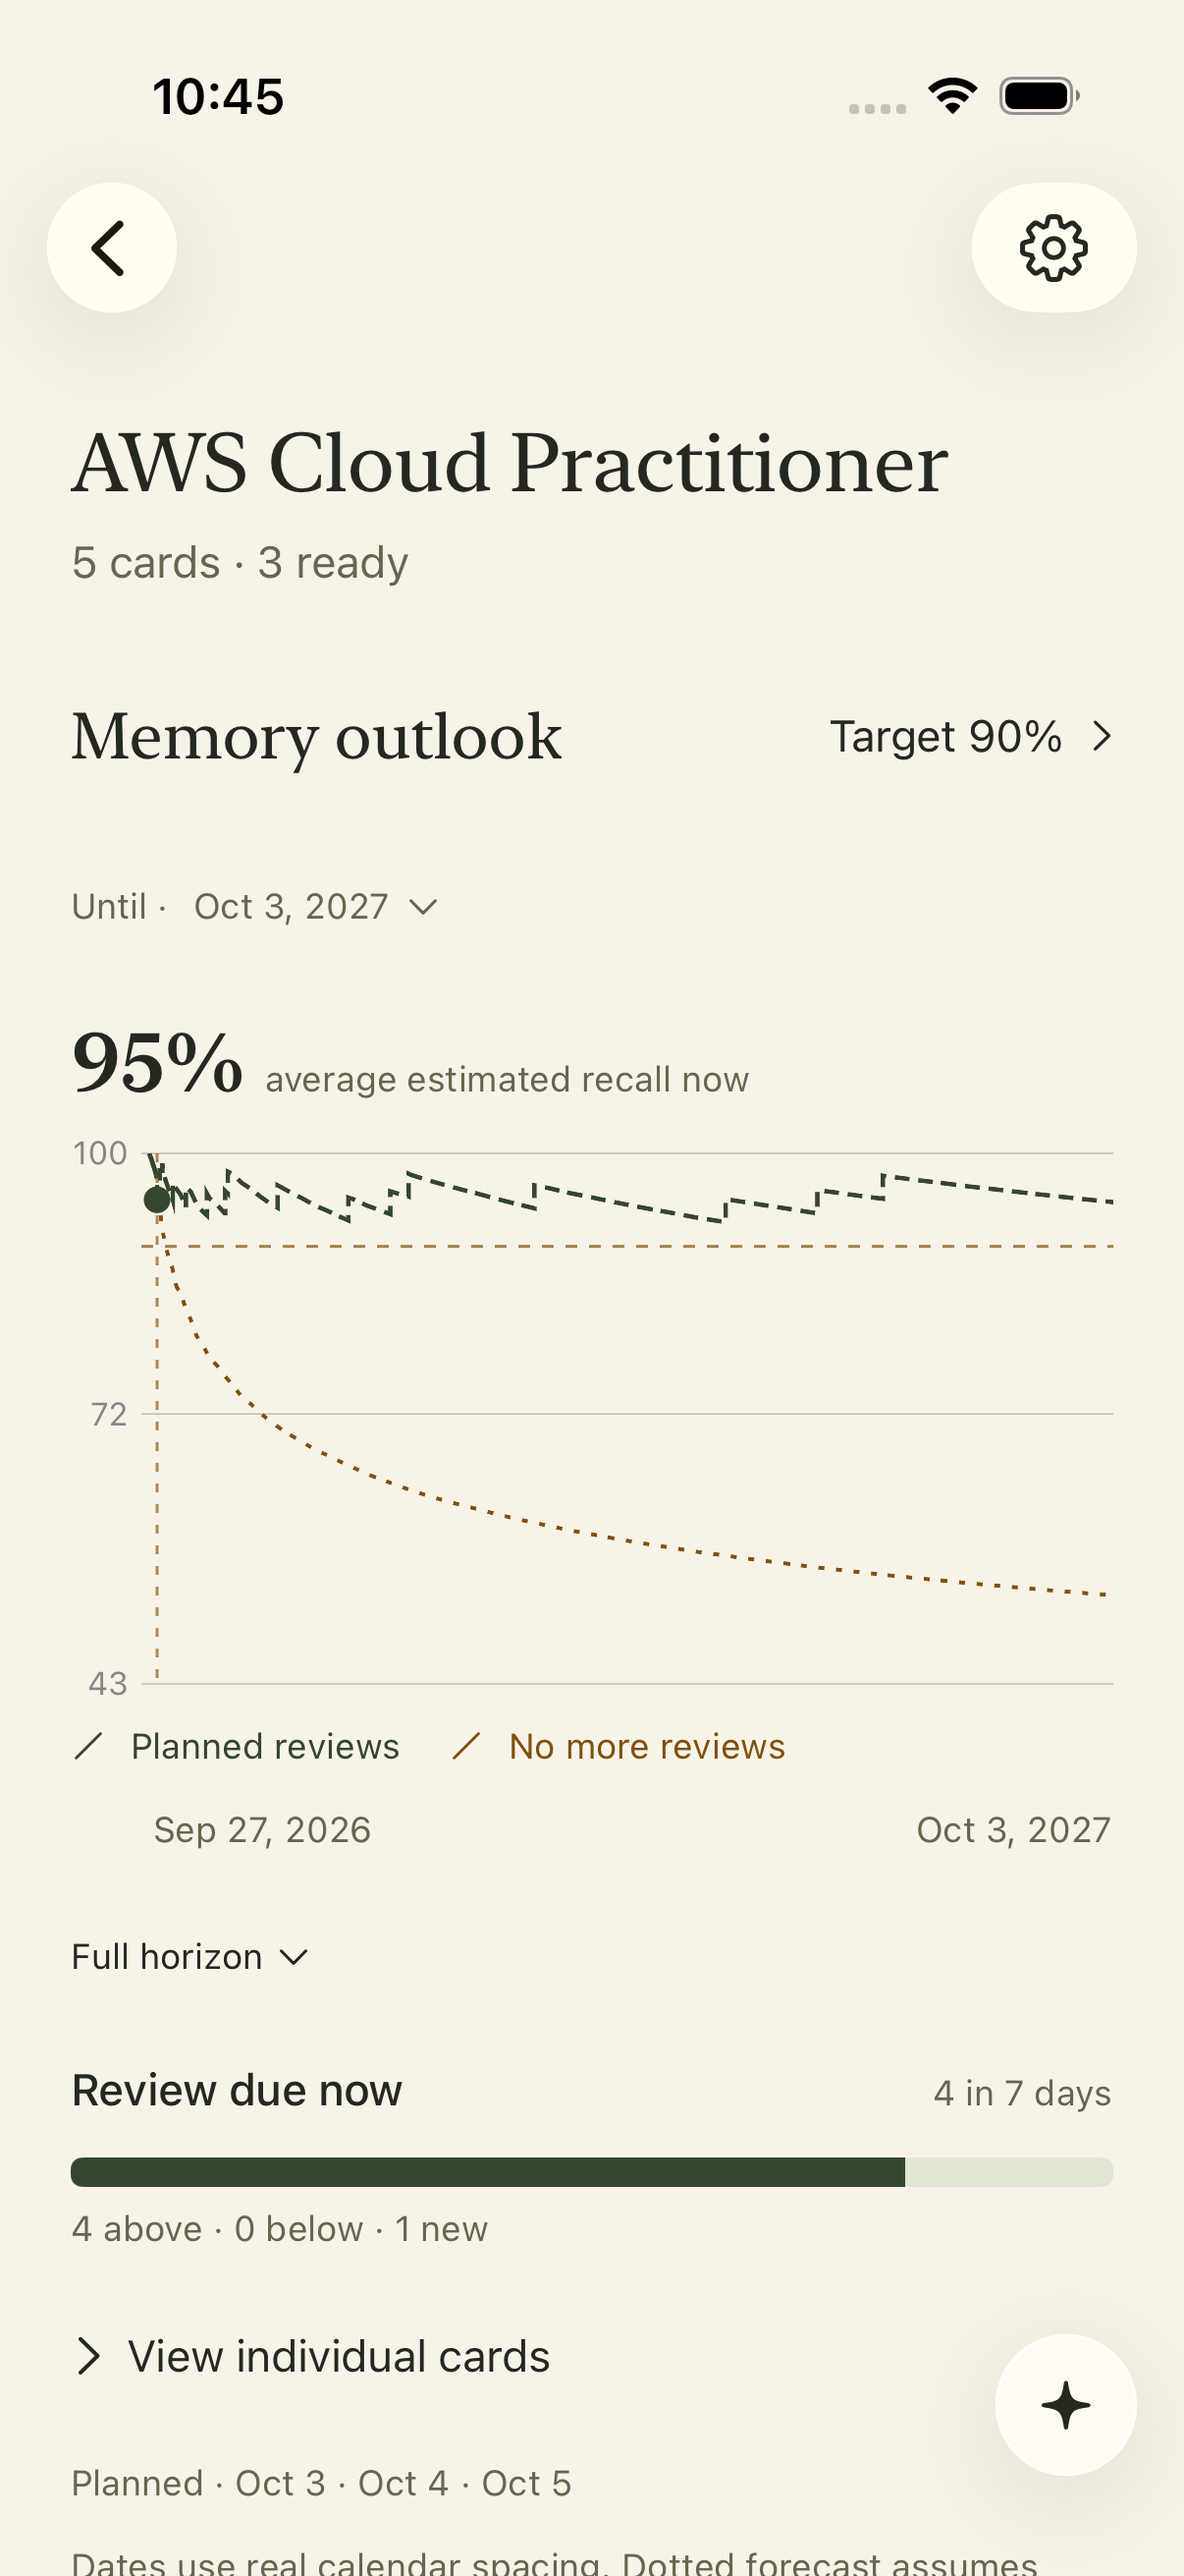
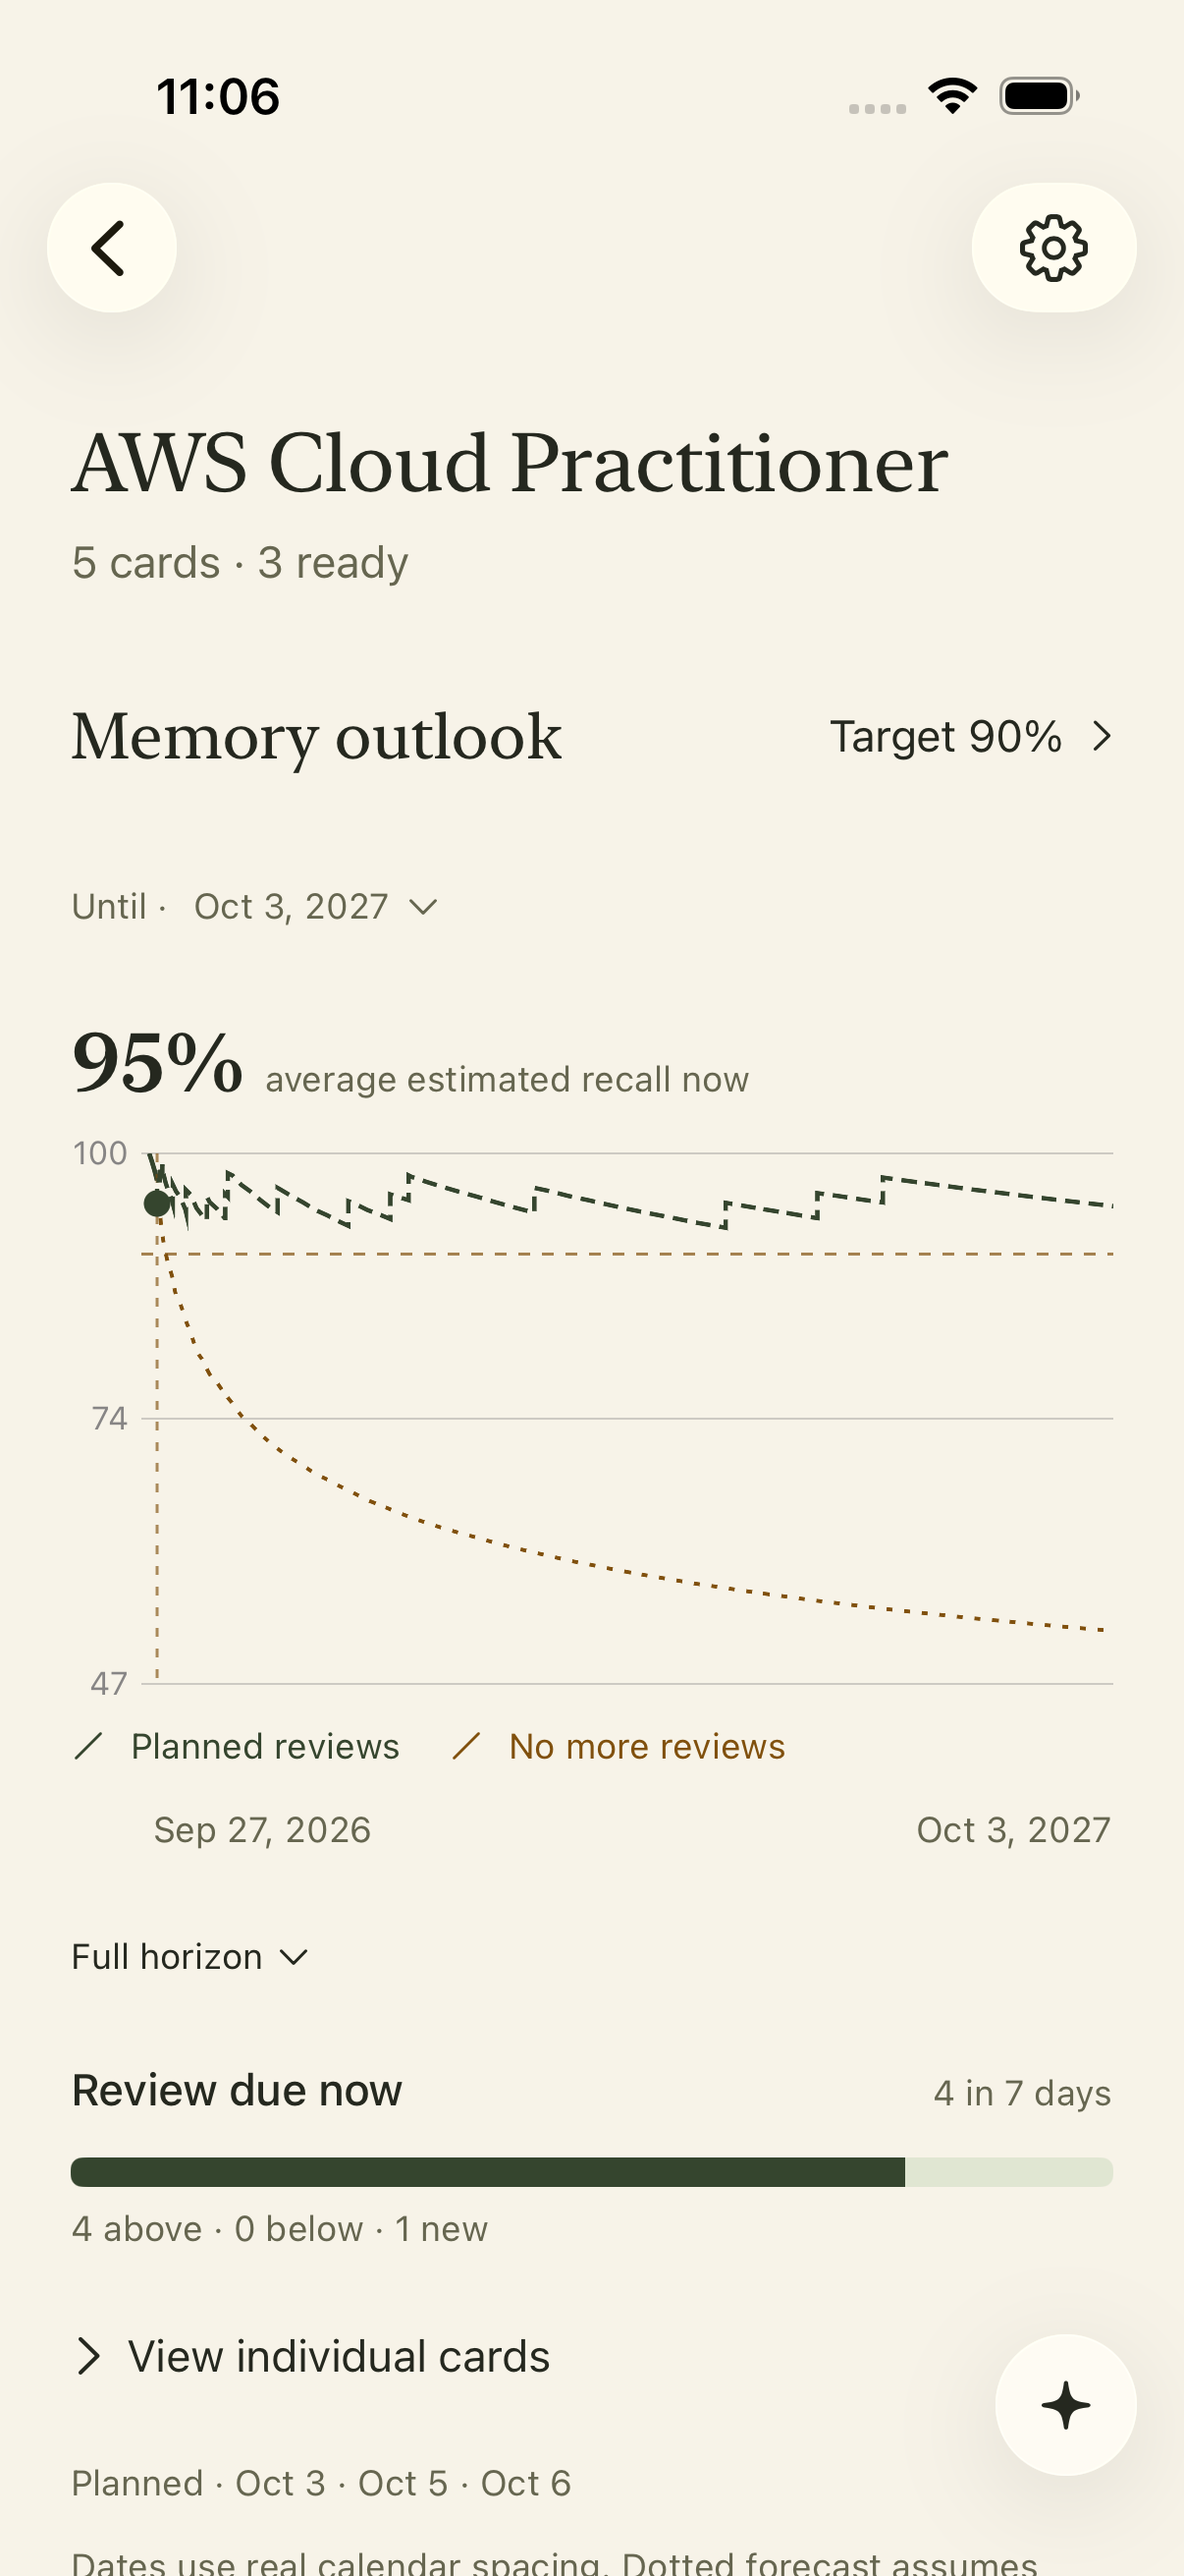
Label retention curves and render vertical forecast jumps

diff --git a/Sources/Features/DeckMemoryPanel.swift b/Sources/Features/DeckMemoryPanel.swift
@@ -48,6 +48,7 @@ struct DeckMemoryPanel: View {
                         Image(systemName: "chevron.right").font(.caption)
                     }.font(.subheadline).frame(minHeight: 44)
                 }
+                HStack(spacing: 12) {
                 Button {
                     useExamDate = (deck.examDate ?? .distantPast) > model.now
                     examDate = useExamDate ? deck.examDate! : outlook.sampleDates.last ?? model.now
@@ -59,6 +60,20 @@ struct DeckMemoryPanel: View {
                         Image(systemName: "chevron.down").font(.caption2)
                     }.font(.caption).foregroundStyle(palette.secondaryText).frame(minHeight: 44)
                 }.buttonStyle(.plain).accessibilityIdentifier("deck-forecast-horizon")
+                    Spacer(minLength: 4)
+                    Menu {
+                        Button("1 month") { setWindow(1) }
+                        Button("2 months") { setWindow(2) }
+                        Button("3 months") { setWindow(3) }
+                        Button("Full horizon") { setWindow(0) }
+                        if windowMonths > 0 { Button("Back to today") { timelineScroll = min(model.now, latestStart); inspectedDate = nil } }
+                    } label: {
+                        HStack(spacing: 4) {
+                            Text(windowMonths == 0 ? "Full horizon" : windowMonths == 1 ? "1 month" : "\(windowMonths) months")
+                            Image(systemName: "chevron.down").font(.caption2)
+                        }.font(.caption).frame(minHeight: 44)
+                    }.accessibilityIdentifier("deck-graph-range")
+                }
                 if outlook.cards.isEmpty {
                     Text("Review cards to see a recall curve. New and learning cards have no reliable estimate yet.")
                         .font(.subheadline).foregroundStyle(palette.secondaryText)
@@ -71,6 +86,7 @@ struct DeckMemoryPanel: View {
                     }
                     let endpoint = DeckMemoryOutlook.recallAt(window.end, dates: outlook.sampleDates, probabilities: values)
                     let axis = DeckMemoryOutlook.recallAxisDomain(endpoint: endpoint)
+                    HStack(spacing: 4) {
                     Chart {
                         ForEach(selected?.history ?? outlook.history) { point in
                             LineMark(x: .value("Date", point.date), y: .value("Recall", point.probability * 100), series: .value("Period", "Recorded reviews"))
@@ -91,7 +107,7 @@ struct DeckMemoryPanel: View {
                                 .lineStyle(StrokeStyle(lineWidth: 1.3, dash: [2, 4]))
                                 .interpolationMethod(.monotone)
                         }
-                        ForEach(selected?.projection ?? outlook.projection) { point in
+                        ForEach(DeckMemoryOutlook.verticalReviewPoints(selected?.projection ?? outlook.projection, reviewDates: selected?.reviewDates ?? outlook.reviewDates).enumerated().map { Point(id: $0.offset, date: $0.element.date, probability: $0.element.probability) }) { point in
                             LineMark(x: .value("Date", point.date), y: .value("Recall", point.probability * 100), series: .value("Period", "Planned reviews"))
                                 .foregroundStyle(curveColor).lineStyle(StrokeStyle(lineWidth: 1.5, dash: [5, 3]))
                                 .interpolationMethod(.linear)
@@ -130,6 +146,19 @@ struct DeckMemoryPanel: View {
                     .accessibilityAction(named: "Previous window") { timelineScroll = max(outlook.startDate, timelineScroll.addingTimeInterval(-visibleDuration)) }
                     .animation(reduceMotion ? nil : .easeOut(duration: 0.25), value: selectedCardID)
                     .accessibilityLabel("Estimated recall \(Int((values.first ?? 0) * 100)) percent today, against a \(Int(outlook.target * 100)) percent target; visible scale \(Int(axis.lowerBound.rounded())) to 100 percent; forecast assumes Good at each planned review")
+                    GeometryReader { geometry in
+                        let projection = selected?.projection ?? outlook.projection
+                        let planned = DeckMemoryOutlook.recallAt(window.end, dates: projection.map(\.date), probabilities: projection.map(\.probability))
+                        let labels = edgeLabels(target: outlook.target, planned: planned, noReview: endpoint, axis: axis, height: geometry.size.height)
+                        ForEach(labels) { label in
+                            Text(label.value, format: .percent.precision(.fractionLength(0)))
+                                .font(.caption2).monospacedDigit().foregroundStyle(label.color)
+                                .accessibilityLabel(label.name + " " + label.value.formatted(.percent.precision(.fractionLength(0))))
+                                .accessibilityIdentifier("deck-curve-label-" + label.name)
+                                .position(x: geometry.size.width / 2, y: label.y)
+                        }
+                    }.frame(width: 46, height: 180).allowsHitTesting(false)
+                    }
                     HStack(spacing: 16) {
                         Label("Planned reviews", systemImage: "line.diagonal").foregroundStyle(curveColor)
                         Label("No more reviews", systemImage: "line.diagonal").foregroundStyle(palette.answerSelectionInk)
@@ -138,18 +167,6 @@ struct DeckMemoryPanel: View {
                         .accessibilityElement(children: .combine)
                         .accessibilityIdentifier("deck-graph-window")
                         .font(.caption).foregroundStyle(palette.secondaryText).padding(.leading, 28)
-                    Menu {
-                        Button("1 month") { setWindow(1) }
-                        Button("2 months") { setWindow(2) }
-                        Button("3 months") { setWindow(3) }
-                        Button("Full horizon") { setWindow(0) }
-                        if windowMonths > 0 { Button("Back to today") { timelineScroll = min(model.now, latestStart); inspectedDate = nil } }
-                    } label: {
-                        HStack(spacing: 4) {
-                            Text(windowMonths == 0 ? "Full horizon" : windowMonths == 1 ? "1 month" : "\(windowMonths) months")
-                            Image(systemName: "chevron.down").font(.caption2)
-                        }.font(.caption).frame(minHeight: 44)
-                    }.accessibilityIdentifier("deck-graph-range")
                     if selected == nil,let next = outlook.nextPlannedReview {
                         HStack(alignment:.firstTextBaseline) {
                             Text(next <= model.now ? "Review due now" : "Next planned review · " + next.formatted(.dateTime.month(.abbreviated).day()))
@@ -252,6 +269,27 @@ struct DeckMemoryPanel: View {
                     outlook = await model.service.memoryOutlook(for: deck, in: model.library, now: model.now)
                 }
         }
+    }
+
+    private struct EdgeLabel: Identifiable {
+        var id: String { name }
+        let name: String
+        let value: Double
+        let color: Color
+        var y: CGFloat
+    }
+    private func edgeLabels(target: Double, planned: Double?, noReview: Double?, axis: ClosedRange<Double>, height: CGFloat) -> [EdgeLabel] {
+        var labels = [("Target", Optional(target), palette.accentInk), ("Planned reviews", planned, curveColor), ("No more reviews", noReview, palette.answerSelectionInk)].compactMap { name, value, color -> EdgeLabel? in
+            guard let value else { return nil }
+            let y = height * CGFloat((100 - value * 100) / (100 - axis.lowerBound))
+            return EdgeLabel(name: name, value: value, color: color, y: min(max(8, y), height - 8))
+        }.sorted { $0.y < $1.y }
+        for index in labels.indices.dropFirst() { labels[index].y = max(labels[index].y, labels[index - 1].y + 17) }
+        if let last = labels.last, last.y > height - 8 {
+            labels[labels.count - 1].y = height - 8
+            for index in labels.indices.dropLast().reversed() { labels[index].y = min(labels[index].y, labels[index + 1].y - 17) }
+        }
+        return labels
     }
 
     private func setWindow(_ months: Int) {

diff --git a/Tests/EngramTests/DeckMemoryOutlookTests.swift b/Tests/EngramTests/DeckMemoryOutlookTests.swift
@@ -1,7 +1,7 @@
 import Foundation
 import XCTest
 import LearningCore
-import StudyApplication
+@testable import StudyApplication
 import PersistenceAdapters
 import SchedulingAdapters
 
@@ -56,6 +56,15 @@ final class DeckMemoryOutlookTests: XCTestCase {
         XCTAssertEqual(RetentionTimeline.duration(months: 0, now: now, start: now, end: end), end.timeIntervalSince(now))
         XCTAssertEqual(RetentionTimeline.duration(months: 1, now: now, start: now, end: now.addingTimeInterval(100)), 100)
         XCTAssertGreaterThan(RetentionTimeline.duration(months: 1, now: now, start: now, end: now), 0)
+    }
+
+    func testFutureJumpIsVerticalWithoutChangingProbabilities() {
+        let review = Date(timeIntervalSince1970: 1000)
+        let points = [MemoryHistoryPoint(date: review.addingTimeInterval(-100), probability: 0.95), MemoryHistoryPoint(date: review.addingTimeInterval(-0.001), probability: 0.8), MemoryHistoryPoint(date: review, probability: 1)]
+        let displayed = DeckMemoryOutlook.verticalReviewPoints(points, reviewDates: [review])
+        XCTAssertEqual(displayed[1].date, displayed[2].date)
+        XCTAssertEqual(displayed.map(\.probability), points.map(\.probability))
+        XCTAssertEqual(points[1].date, review.addingTimeInterval(-0.001))
     }
 
     func testVisibleEndpointAxisHasTenPercentBottomMargin() {

diff --git a/Sources/StudyApplication/DeckMemoryOutlook.swift b/Sources/StudyApplication/DeckMemoryOutlook.swift
@@ -112,6 +112,20 @@ public struct DeckMemoryOutlook: Sendable {
                     nextPlannedReview: scheduled.min(),
                     scheduledWithinWeek: scheduled.filter { $0 <= now.addingTimeInterval(7 * 86_400) }.count)
     }
+    /// Display-only: collapse each pre-review sample onto its review timestamp for an exact vertical jump.
+    public static func verticalReviewPoints(_ points: [MemoryHistoryPoint], reviewDates: [Date]) -> [MemoryHistoryPoint] {
+        let reviews = Set(reviewDates)
+        return points.enumerated().map { index, point in
+            guard index + 1 < points.count else { return point }
+            let next = points[index + 1]
+            if reviews.contains(next.date), next.date.timeIntervalSince(point.date) > 0,
+               next.date.timeIntervalSince(point.date) < 0.002 {
+                return MemoryHistoryPoint(date: next.date, probability: point.probability)
+            }
+            return point
+        }
+    }
+
     /// Put the visible orange endpoint 10% above the plot bottom, with a 10-point minimum span.
     public static func recallAxisDomain(endpoint: Double?) -> ClosedRange<Double> {
         guard let endpoint, endpoint.isFinite, (0...1).contains(endpoint) else { return 0...100 }

diff --git a/Tests/EngramUITests/MinimalistStudyUITests.swift b/Tests/EngramUITests/MinimalistStudyUITests.swift
@@ -11,6 +11,11 @@ final class MinimalistStudyUITests: XCTestCase {
         XCTAssertTrue(range.label.contains("1 month"))
         let dates = app.descendants(matching: .any)["deck-graph-window"].firstMatch
         let initial = dates.label
+        for name in ["Target", "Planned reviews", "No more reviews"] {
+            let label = app.staticTexts["deck-curve-label-" + name]
+            XCTAssertTrue(label.exists)
+            XCTAssertGreaterThan(label.frame.intersection(app.frame).width, 0)
+        }
         capture("Deck-One-Month", app)
         let chart = app.descendants(matching: .any)["deck-retention-chart"].firstMatch
         chart.swipeLeft()

diff --git a/docs/DECK-RETENTION-HORIZON.md b/docs/DECK-RETENTION-HORIZON.md
@@ -46,3 +46,10 @@ Dynamic visible-window scaling now supersedes the fixed Y-axis. The no-review pr
 
 Eleven focused tests passed, including endpoint interpolation, 10%-of-height margins at different recall levels, minimum span and invalid-input fallbacks. Native scrolling/range selection passed in /tmp/engram-dynamic-visible-axis.xcresult. Initial/scrolled screenshots were inspected and rotated in current_ui.
 Signed app installed and launched on the paired iPhone at 23:06 on 3 October 2026.
+
+The horizon/exam control and month range now share one row above the graph. A dedicated right-edge column shows the target, planned-review estimate and no-review estimate at the visible end date, using their curve colours and collision spacing. Values update while scrolling and switching cards. Forecast pre-review points are drawn at the same timestamp as their post-review points, producing exact vertical jumps without changing probabilities, simulated dates or saved scheduling. Indexed display IDs preserve both points at a shared timestamp.
+
+Average estimated recall is the unweighted arithmetic mean of eligible reviewed cards’ current FSRS recall probabilities. New, individually suspended, retired/missing-note and unsupported-state cards are excluded. Future reviews assume Good; past wrong answers affect current scheduling states, while staggered per-card review dates create smaller increments in deck averages.
+
+All twelve focused tests passed, including display-only vertical jumps with preserved probabilities. Native scrolling and all three visible right-edge labels passed in /tmp/engram-labelled-curves-final.xcresult. The initial overlay labels were clipped by the scrolling plot; an external column fixed that issue. Final initial/scrolled screenshots were inspected and archived.
+Signed app installed and launched on the paired iPhone at 23:46 on 3 October 2026.
